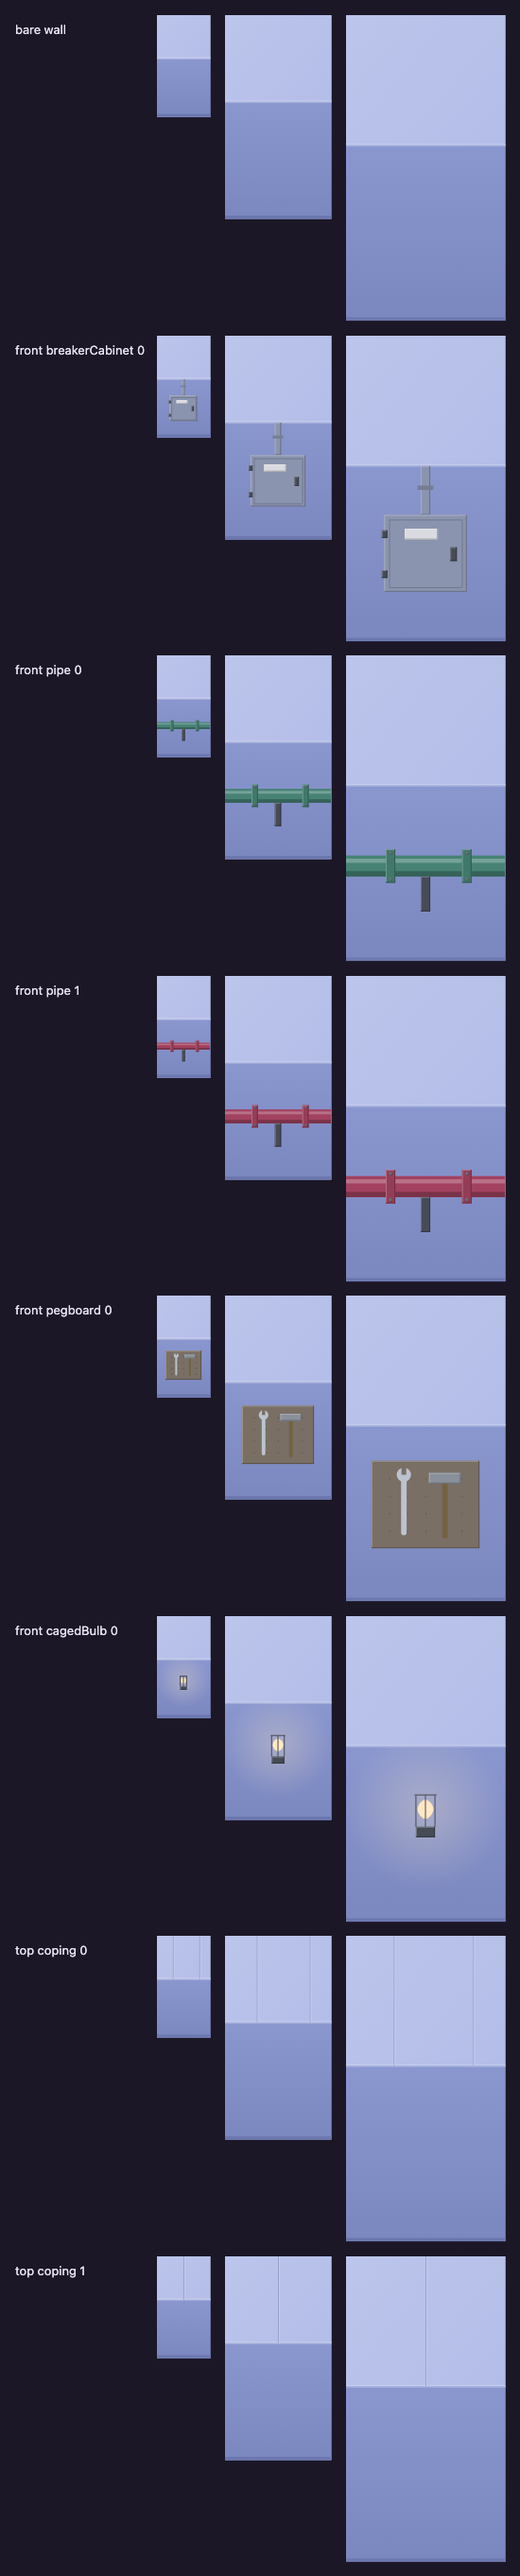
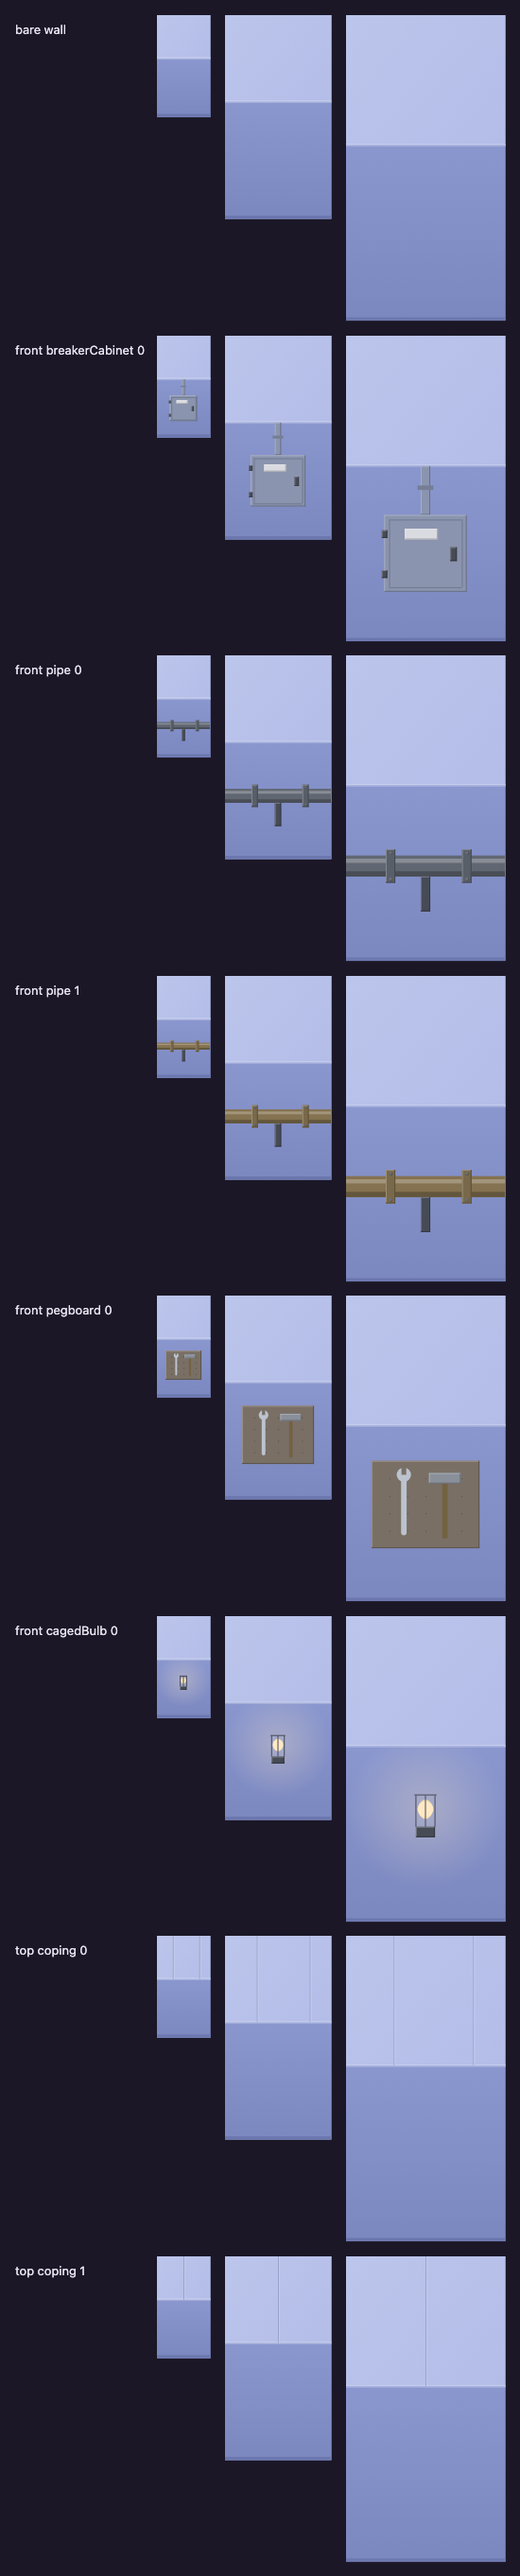
Rule 2's colour ban measured on every painter (auto fixes 4, Task 245)
The only colour test painted only `painting` and matched four exact strings,
so it missed works.ts's red() (a darkened code red at ~70 %) and the pipe's
green, both drawn in room 9 beside a wires panel. A new test measures every
fill and stroke of every painter: fitted as a·code + t·wall by least squares
(a code colour through its darker range), it fails when the leftover is
under 2 RGB units and t under 0.7. Printed data drew the line: code-made
fills leave < 1, brass/wood/steel ≥ 2.1, every painting fill passes (t 0.72).

Red before (20 fills), among them:
  pipe: #8c303f is codeRed at t 0.22 (left 0.1)
  cableTray: #ba4054 is codeRed at t 0.30 (left 0.2)
  banner, curtain, bankerLamp, sconces, flowers (code white at t 0)
Fixed: pipe and red() moved to rust and steel (muting alone failed through
their lit/shade bands); cloth, velvet, banner blue, lamp shade, terracotta
muted to MUTE (now in kit.ts, re-exported by civic.ts); white blooms and
candle wax cream; banner border plain brass. Leaf greens allow-listed per
kind with reason (ivy, fernBasket, hangingBasket, moss, plantShelf,
trellis), listed for the user in review/QUEUE.md.

Break checks (scripted, text asserted): painting's muted(codeRed) →
mix(codeRed, wallFront, 0.5) turned the new test red ("#da5b72 is codeRed
at t 0.50") while the gallery test stayed green; red()'s old mix back turned
it red on pipe and cableTray. The first break exposed a measure bug (an
[…]

Changed region(s): [[0.6491, 0.4369, 0.9891, 0.4681], [0.68, 0.312, 0.9582, 0.3432], [0.4327, 0.4057, 0.6491, 0.4369]]

diff --git a/src/client/render/decor-paint.test.ts b/src/client/render/decor-paint.test.ts
@@ -183,6 +183,37 @@ const alphaOf = (style: unknown): number => {
 const FILLS = new Set(["fill", "fillRect"]);
 const STROKES = new Set(["stroke", "strokeRect"]);
 
+// How strongly a fill carries a code colour (rule 2): for each code colour k, the fill f is fitted as
+// a·k + t·wall (a darkened k, mixed t of the way to the wall: a = (1 − t)(1 − d) for darkness d), by
+// least squares in RGB. The code whose fit leaves the least is the one the fill is nearest; `left` is
+// that distance, in 0 to 255 RGB units, and t its share toward the wall.
+const CODES = ["codeRed", "codeBlue", "codeYellow", "codeGreen", "codeWhite"] as const;
+const rgb = (c: string) => [1, 3, 5].map((i) => Number.parseInt(c.slice(i, i + 2), 16));
+function codeStrength(fill: string) {
+  if (!/^#[0-9a-f]{6}$/i.test(fill)) return null;
+  const f = rgb(fill);
+  const wall = rgb(WORLD.wallFront);
+  let best: { code: (typeof CODES)[number]; t: number; d: number; left: number } | null = null;
+  for (const code of CODES) {
+    const k = rgb(WORLD[code]);
+    // solve [k w] [a t]ᵀ ≈ f
+    const dot = (x: number[], y: number[]) => x.reduce((s, v, i) => s + v * (y[i] as number), 0);
+    const kk = dot(k, k);
+    const kw = dot(k, wall);
+    const ww = dot(wall, wall);
+    const det = kk * ww - kw * kw;
+    if (Math.abs(det) < 1e-6) continue;
+    const a = (dot(k, f) * ww - dot(wall, f) * kw) / det;
+    const t = (dot(wall, f) * kk - dot(k, f) * kw) / det;
+    if (a <= 0 || t < 0 || t >= 1) continue;
+    const d = 1 - a / (1 - t);
+    if (d < -0.05 || d > 0.5) continue; // a code colour taken through its darker range (and rounding)
+    const left = Math.hypot(...f.map((v, i) => v - a * (k[i] as number) - t * (wall[i] as number)));
+    if (!best || left < best.left) best = { code, t, d, left };
+  }
+  return best;
+}
+
 describe("the rules", () => {
   it("rule 2: no painter writes text", () => {
     for (const item of items())
@@ -357,6 +388,35 @@ describe("the rules", () => {
           );
       }
     }
+  });
+
+  // rule 2 on every painter: no fill or stroke is a code colour (taken through its darker range) at
+  // less than 70 % of the way to the wall. A fill made from a code colour fits it with under 1 RGB unit
+  // left over; brass, wood and steel come no nearer than 2.1 (moss's light green), so 2 is the line.
+  // Kinds allowed a code colour, each for one code and with its reason (listed for the user):
+  const CODE_OK: Partial<Record<DecorKind, { code: (typeof CODES)[number]; why: string }>> = {
+    ivy: { code: "codeGreen", why: "a leaf is green: that is what makes it a leaf" },
+    fernBasket: { code: "codeGreen", why: "a fern's fronds are green" },
+    hangingBasket: { code: "codeGreen", why: "its trailing leaves are green" },
+    moss: { code: "codeGreen", why: "moss is green" },
+    plantShelf: { code: "codeGreen", why: "the plants' leaves are green" },
+    trellis: { code: "codeGreen", why: "the climber's leaves are green" },
+  };
+  it("rule 2: no painter fills or strokes in a code colour at more than 30 % strength", () => {
+    expect(MUTE).toBeGreaterThanOrEqual(0.7);
+    const strong = new Set<string>();
+    for (const item of items())
+      for (const o of paint(item).ops) {
+        const tone = FILLS.has(o.name) ? o.fillStyle : STROKES.has(o.name) ? o.strokeStyle : null;
+        if (typeof tone !== "string") continue;
+        const m = codeStrength(tone);
+        if (!m || m.left >= 2 || m.t >= 0.7) continue; // 30 % strength: MUTE (0.72) clears it
+        if (CODE_OK[item.kind]?.code === m.code) continue;
+        strong.add(
+          `${item.kind}: ${tone} is ${m.code} at t ${m.t.toFixed(2)} (left ${m.left.toFixed(1)})`,
+        );
+      }
+    expect([...strong]).toEqual([]);
   });
 
   it("every theme kind has a painter", () => {

diff --git a/src/client/render/decor-paint/civic.ts b/src/client/render/decor-paint/civic.ts
@@ -1,11 +1,22 @@
 import { mix, WORLD } from "../../tokens.ts";
-import { bulb, darker, glow, iron, lighter, litBox, type Painter, wood } from "./kit.ts";
+import {
+  bulb,
+  darker,
+  glow,
+  iron,
+  lighter,
+  litBox,
+  MUTE,
+  muted,
+  type Painter,
+  wood,
+} from "./kit.ts";
 
 // Rooms 03 (watch house), 04 (bank) and 05 (gallery): things a watch house, a bank hall and a gallery
 // hang on their walls, each with a job (DESIGN.md §4.9).
 
 const brassFrame = () => mix(WORLD.brass, WORLD.wallFront, 0.15);
-const cloth = () => mix(darker(WORLD.codeRed, 0.35), WORLD.wallFront, 0.35);
+const cloth = () => muted(darker(WORLD.codeRed, 0.35));
 const paper = () => mix(WORLD.codeWhite, WORLD.brass, 0.15);
 
 function bar(
@@ -37,7 +48,7 @@ export const banner: Painter = (c, item, w, h) => {
   bar(c, w * 0.5, h * 0.05, x0, top, 1, darker(wood(), 0.2)); // the cords to a peg
   bar(c, w * 0.5, h * 0.05, x1, top, 1, darker(wood(), 0.2));
   litBox(c, w * 0.485, h * 0.035, w * 0.03, w * 0.03, iron());
-  const tone = item.variant % 2 ? mix(darker(WORLD.codeBlue, 0.4), WORLD.wallFront, 0.35) : cloth();
+  const tone = item.variant % 2 ? muted(darker(WORLD.codeBlue, 0.4)) : cloth();
   c.fillStyle = tone;
   c.beginPath();
   c.moveTo(x0, top);
@@ -53,7 +64,7 @@ export const banner: Painter = (c, item, w, h) => {
   c.fillStyle = darker(tone, 0.18);
   c.fillRect(x0 + (x1 - x0) * 0.66, top, (x1 - x0) * 0.14, foot - top - h * 0.1);
   // a border band in brass a little below the rod
-  c.fillStyle = mix(WORLD.brass, tone, 0.35);
+  c.fillStyle = darker(WORLD.brass, 0.15); // plain brass: tinted by the cloth it read as a code yellow
   c.fillRect(x0, top + h * 0.06, x1 - x0, Math.max(1, h * 0.025));
   litBox(c, x0 - w * 0.06, top - h * 0.02, x1 - x0 + w * 0.12, h * 0.03, wood()); // the rod
   for (const x of [x0 - w * 0.05, x1 + w * 0.05]) {
@@ -206,7 +217,7 @@ export const bankerLamp: Painter = (c, _item, w, h) => {
   glow(c, cx, sy + h * 0.06, w * 0.5);
   litBox(c, cx - w * 0.04, h * 0.42, w * 0.08, h * 0.12, WORLD.brass); // the wall plate
   bar(c, cx, h * 0.44, cx, sy, Math.max(1, w * 0.025), WORLD.brass);
-  const shade = mix(darker(WORLD.codeGreen, 0.3), WORLD.wallFront, 0.2);
+  const shade = muted(darker(WORLD.codeGreen, 0.3));
   c.fillStyle = shade;
   c.beginPath();
   c.moveTo(cx - w * 0.18, sy + h * 0.04);
@@ -240,8 +251,7 @@ export const coatHooks: Painter = (c, _item, w, h) => {
 // The gallery: a gilt moulded frame, in one of two sizes, round a landscape or a still life in code
 // colours mixed most of the way to the wall (MUTE), so no code survives in it; a plain label card
 // under it, and a picture light above (lit). No portraits: a figure would read as a role's shape.
-export const MUTE = 0.72;
-const muted = (tone: string) => mix(tone, WORLD.wallFront, MUTE);
+export { MUTE };
 export const painting: Painter = (c, item, w, h) => {
   const big = item.variant % 2 === 0;
   const fw = w * (big ? 0.66 : 0.5);

diff --git a/src/client/render/decor-paint/works.ts b/src/client/render/decor-paint/works.ts
@@ -1,12 +1,13 @@
 import { mix, WORLD } from "../../tokens.ts";
-import { bulb, darker, glow, iron, lighter, litBox, type Painter, wood } from "./kit.ts";
+import { bulb, darker, glow, iron, lighter, litBox, muted, type Painter, wood } from "./kit.ts";
 
 // Rooms 07 (service) and 09 (strongroom): a plant room's fittings and a vault's steel, each with a
 // job (DESIGN.md §4.9).
 
 const steel = () => mix(WORLD.steel, WORLD.wallFront, 0.3);
 const grey = () => mix(WORLD.steelFront, WORLD.wallFront, 0.25);
-const red = () => mix(darker(WORLD.codeRed, 0.2), WORLD.wallFront, 0.3);
+// rust, not a code red: brass taken dark and warm (rule 2: no code colour a wire panel could share)
+const red = () => mix(darker(WORLD.brass, 0.35), WORLD.wallFront, 0.2);
 
 function bar(
   c: CanvasRenderingContext2D,
@@ -63,7 +64,8 @@ export const breakerCabinet: Painter = (c, _item, w, h) => {
 export const pipe: Painter = (c, item, w, h) => {
   const y = h * 0.4;
   const t = h * 0.12;
-  const tone = item.variant % 2 ? red() : mix(darker(WORLD.codeGreen, 0.25), WORLD.wallFront, 0.35);
+  // rust, or a grey-green painted steel: never a code red or green (rule 2)
+  const tone = item.variant % 2 ? red() : darker(WORLD.steelFront, 0.3);
   c.fillStyle = tone;
   c.fillRect(0, y, w, t);
   c.fillStyle = lighter(tone, 0.25); // round: a lit band on top, a shade below

diff --git a/src/client/render/decor-paint/garden.ts b/src/client/render/decor-paint/garden.ts
@@ -9,6 +9,7 @@ import {
   leafTone,
   lighter,
   litBox,
+  muted,
   type Painter,
   wood,
 } from "./kit.ts";
@@ -16,9 +17,13 @@ import {
 // Rooms 01 (pavilion) and 02 (conservatory): things a garden pavilion's walls carry. Each has a job
 // (DESIGN.md §4.9): a lattice holds the ivy, a lantern lights, a basket hangs, coping caps the wall.
 
-const terracotta = () => mix(darker(WORLD.codeRed, 0.25), WORLD.brass, 0.45);
+const terracotta = () => muted(mix(darker(WORLD.codeRed, 0.25), WORLD.brass, 0.45));
 const flower = (v: number) =>
-  [WORLD.codeWhite, WORLD.dyePink, mix(WORLD.codeYellow, WORLD.codeWhite, 0.4)][v % 3] as string;
+  [
+    mix(WORLD.codeWhite, WORLD.brass, 0.18),
+    WORLD.dyePink,
+    mix(WORLD.codeYellow, WORLD.codeWhite, 0.4),
+  ][v % 3] as string; // a white bloom is cream, not code white
 
 // A thin bar from (x0, y0) to (x1, y1), w wide, in tone: a lattice lath, a chain, a stem.
 function bar(

diff --git a/src/client/render/decor-paint/stage.ts b/src/client/render/decor-paint/stage.ts
@@ -1,10 +1,10 @@
 import { mix, WORLD } from "../../tokens.ts";
-import { bulb, darker, glow, iron, lighter, litBox, type Painter, wood } from "./kit.ts";
+import { bulb, darker, glow, iron, lighter, litBox, muted, type Painter, wood } from "./kit.ts";
 
 // Rooms 06 (backstage) and 08 (salon): a theatre's wings and a music room, each thing with a job
 // (DESIGN.md §4.9).
 
-const velvet = () => mix(darker(WORLD.codeRed, 0.45), WORLD.wallFront, 0.25);
+const velvet = () => muted(darker(WORLD.codeRed, 0.45));
 const paper = () => mix(WORLD.codeWhite, WORLD.brass, 0.18);
 
 function bar(
@@ -127,7 +127,7 @@ export const sconceDim: Painter = (c, _item, w, h) => {
     h * 0.24,
     w * 0.05,
     h * 0.13,
-    mix(WORLD.codeWhite, WORLD.wallFront, 0.3),
+    paper(), // wax, not code white
   );
 };
 

diff --git a/src/client/render/decor-paint/kit.ts b/src/client/render/decor-paint/kit.ts
@@ -62,6 +62,10 @@ export function litBox(
 // mixed a little toward the wall so they sit in the room's light.
 export const wood = () => mix(darker(WORLD.brass, 0.45), WORLD.wallFront, 0.15);
 export const iron = () => mix(darker(WORLD.steelFront, 0.55), WORLD.wallFront, 0.1);
+// Rule 2 (DESIGN.md §4.9): a code colour in decor is mixed at least this far toward the wall, so no
+// code can be read off it (decor-paint.test.ts measures every painter against 70 %).
+export const MUTE = 0.72;
+export const muted = (tone: string) => mix(tone, WORLD.wallFront, MUTE);
 export const leafTone = (t = 0) => mix(darker(WORLD.codeGreen, 0.2 + t), WORLD.wallFront, 0.3);
 
 // A small leaf: a lens at (x, y), l long, turned by a, with its lit half a shade lighter.

diff --git a/plans/2026-11-07-overnight.md b/plans/2026-11-07-overnight.md
@@ -276,3 +276,6 @@
 - autofix4/244: the dial test also caught `violin` (its lower bout, 7.2 by 6.8 at a 7.2 limit) → allow-listed with its reason (the body of the instrument, crossed by strings and neck), because redrawing the violin smaller is a look change the plan did not ask for and the plan allows reasoned entries for kinds other than the tray and coil. Reversible by deleting the `ROUND_OK.violin` entry and redrawing `instrument`.
 - autofix4/244: the plan asks for `ropeCoil` screenshotted "in the room whose theme holds it" (room 3, watch); no shipped room places a rope coil (decorFor picks none) → its look is shown on the contact sheet only (`review/decor/03-watchers.png`), because a room shot can't show an item the room doesn't place. Reversible: none needed.
 - autofix4/244: the home hero's reduced-motion test failed again in the Task 244 full check (2 of 4 loaded runs), with everything else green → committed Task 244 anyway and put the flake in `specs/backlog.md` (Parked) with its likely cause, because it is outside this unit's files, room 1 has no wires so the unit's Feeds change is a no-op there, and fixing another area's spec mid-unit is out of scope. Reversible by fixing that spec's frame comparison.
+- autofix4/245: from 16:08 every `pnpm <script>` aborted with ERR_PNPM_ABORTED_REMOVE_MODULES_DIR_NO_TTY: `../wt-l4/node_modules` is a symlink to this worktree's `node_modules`, and a pnpm run there rewrote `node_modules/.modules.yaml` (its `virtualStoreDir` now points at `../../wt-l4/node_modules/.pnpm`) → ran the check's own steps directly (`npx astro check`, `npx biome check .`, `node scripts/lint-rooms.ts`, `npx vitest run`, and `node server.ts` with the start:check env), and did not reinstall or touch the other worktree, because purging node_modules would break whatever shares it. Reversible: `pnpm install` in a TTY once nothing else uses it.
+- autofix4/245: muting the pipe to MUTE still failed through its lit and shaded bands (`lighter`/`darker` of a muted code colour), and a brass-tinted steel happened to fit the green–wall plane → moved the pipe and `red()` to non-code hues (rust from brass, plain steel), the plan's second option, and made the banner's border plain brass. Muted to MUTE: cloth, velvet, the banner's blue, civic's lamp shade, terracotta; the white bloom and candle wax became cream (paper). Leaf greens allow-listed per kind with reason, for the user. Reversible by editing the painters in `src/client/render/decor-paint/`.
+- autofix4/245: the measure's line → leftover < 2 RGB units and t < 0.7 (rule 2's "30 %"), not t < MUTE (0.72), because `mix` rounds to whole RGB units and the paintings' own MUTE fills measure t 0.719. Reversible in `decor-paint.test.ts`.

diff --git a/review/QUEUE.md b/review/QUEUE.md
@@ -805,3 +805,12 @@ No human review in this unit (nothing here changes how the game looks, beyond ed
 - **Screenshots:** `review/n7-autofix4-task244-tray-room9-1280.png` (Can't hear at (25, 2): Q2's wires and the tray in one frame, from a real `viewFor`), `review/n7-autofix4-task244-tray-room9-375.png` (at (27, 2): the tray; Q2 is off a phone's width). No shipped room places a rope coil, so it has only the contact sheet.
 - **Allow-list entries for you:** `violin` may draw its lower bout (0.15 by 0.13 of the face) because it is the instrument's body, not a dial. The band count merges a rod's lit and shaded edges into one band and ignores a box's own edges (logged in `plans/2026-11-07-overnight.md`).
 - **Judged:** the tray reads as loose cable at 2× and 3×; at 1× it is a thin sagging line, which is fine. The coil reads as rope at every size. The tray's red cable is still strong next to Q2's red wire: that is Task 245's (rule 2's colour ban).
+
+### autofix4 Task 245: rule 2's colour ban measured on every painter
+
+- **Look at:** room 7's pipe (now painted steel or rust, was code green or a 70 % code red), room 9's cable tray (grey and rust cables, was a code red beside Q2's red wire), the watch banner's border (plain brass), and the cloth, velvet, banner blue, lamp shade, terracotta, white blooms and candle wax, all muted to `MUTE` (0.72) or moved to cream. A pass means none of them could be taken for a wire or code colour, and the rooms still look warm.
+- **Start it:** `BENCH=1 npx astro build && node scripts/decor-sheet.ts 07 09 03 06 08` (sheets in `review/decor/`); in the game, `pnpm build && pnpm start`, rooms 7 and 9.
+- **Screenshots:** `review/decor/07-night-shift.png`, `review/decor/09-the-vault.png`, `review/n7-autofix4-task245-room9-1280.png` (Q2's wires and the tray in one frame, from a real `viewFor` with Can't hear at (25, 2)), `review/n7-autofix4-task245-room9-375.png` (at (27, 2)).
+- **Allow-list entries for you (green only, each "a leaf is green"):** `ivy`, `fernBasket`, `hangingBasket`, `moss`, `plantShelf`, `trellis`. Their leaf greens are about 70 % of a darkened code green. If you want them muted too, delete the entries and mute `leafTone`.
+- **The measure:** each fill or stroke is fitted as a·code + t·wall by least squares; colours made from a code colour leave under 1 RGB unit, and brass, wood and steel leave 2.1 or more, so a fill fails at a leftover under 2 and t under 0.7. Neutral greys near the rose wall can fall in a code's plane by chance (the first steel pipe tone did); if one does, change the tone rather than the line.
+- **Judged:** the sheets for rooms 7 and 9 read as steel, rust and brass; nothing in them reads as a code colour.

diff --git a/DESIGN.md b/DESIGN.md
@@ -234,9 +234,9 @@ signal. Decor is also drawn in the home feeds (room 01's, for the sighted feeds 
 | 04 bank | raised-panel wainscot under one dado rail, a framed landscape engraving (no text), a banker's lamp (lit), a brass coat-hook strip | stone coping |
 | 05 gallery | gilt frames in two sizes round a landscape or a still life (code colours mixed at least 70 % toward the wall, no portraits), a plain label card, a picture light (lit) | stone coping |
 | 06 backstage | a velvet curtain drawn back by a tieback, a dressing mirror (dull, opaque) under a row of unlit bulbs, a fly rope on a cleat with its sandbag, an unlit candle sconce | stone coping |
-| 07 service | a breaker cabinet (hinged lid, latch, a blank label plate), a painted pipe with bolted flanges, a pegboard with a spanner and a hammer, a caged bulb (lit) | stone coping |
+| 07 service | a breaker cabinet (hinged lid, latch, a blank label plate), a pipe with bolted flanges (painted steel or rust, never a code colour), a pegboard with a spanner and a hammer, a caged bulb (lit) | stone coping |
 | 08 salon | a violin and a lute hung from pegs (shaded wood, strings), a framed manuscript (staves, bar lines, a clef, never a note head), a candle sconce (lit) | stone coping |
-| 09 strongroom | steel cladding, caged sconces, rivet rows | rivet rows |
+| 09 strongroom | steel cladding, iron hinge straps, a tray of grey and rust cables sagging between its brackets, a steel girder, caged sconces | rivet rows |
 
 - **Placement** (`decorFor` in `src/client/render/decor.ts`): each wall cell's face rolls its own
   dice, seeded from the room id and that cell alone, so two seats whose views differ only by the night
@@ -271,7 +271,9 @@ signal. Decor is also drawn in the home feeds (room 01's, for the sighted feeds 
   A lit item never hangs within a tile of a dark zone (`decor.test.ts`, from the room file's flips:
   the client is never told the zones, and a sighted seat sees them as night, which decor keeps clear
   of anyway).
-  `decor-paint.test.ts` checks rules 2, 4, 5 and 6 on every painter, and two shapes of rule 3 on
+  `decor-paint.test.ts` checks rules 2, 4, 5 and 6 on every painter (rule 2's colours by measure: no
+  fill or stroke is a code colour, darkened or not, less than 70 % of the way to the wall; leaf greens
+  are allow-listed by kind), and two shapes of rule 3 on
   every painter: slats (no more than 2 horizontal bands across half a face) and dial or gauge faces
   (no near-round circle of radius 0.15 of the face or more), each with an allow-list whose entries
   name their reason. `decor.test.ts` checks kind names against the rest of rule 3. Whether a shape

diff --git a/plans/2026-11-07-auto-fixes-4.md b/plans/2026-11-07-auto-fixes-4.md
@@ -219,7 +219,7 @@ then does the fix go in. If a finding will not reproduce, it is not fixed: it ge
   coil.
 - **Depends on:** none.
 
-### Task 245: Rule 2's colour ban on every painter (FR6) — [ ] todo
+### Task 245: Rule 2's colour ban on every painter (FR6) — [x] done
 
 - **Description:**
   - The problem: the only colour test (`decor-paint.test.ts:267-282`) paints only `painting`, and checks
